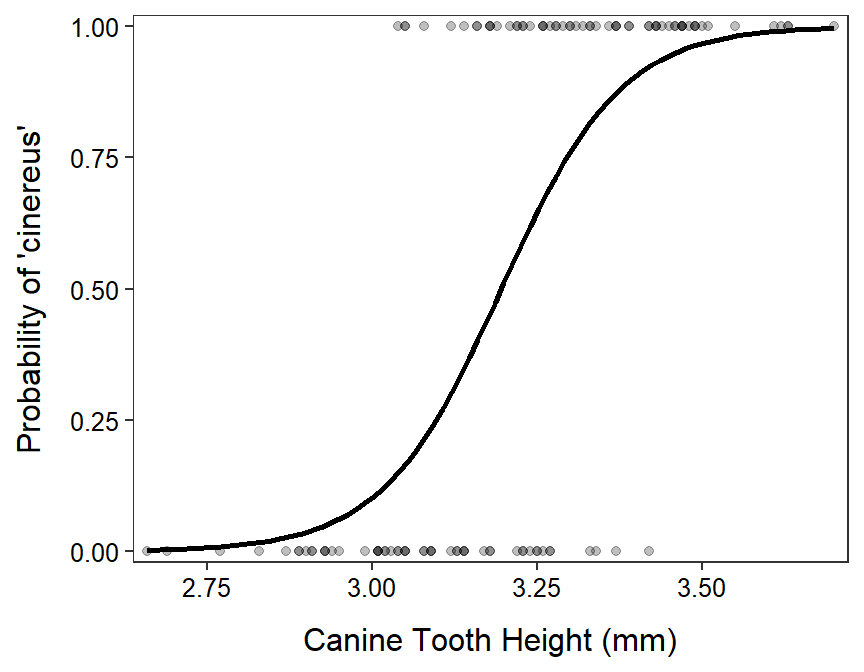
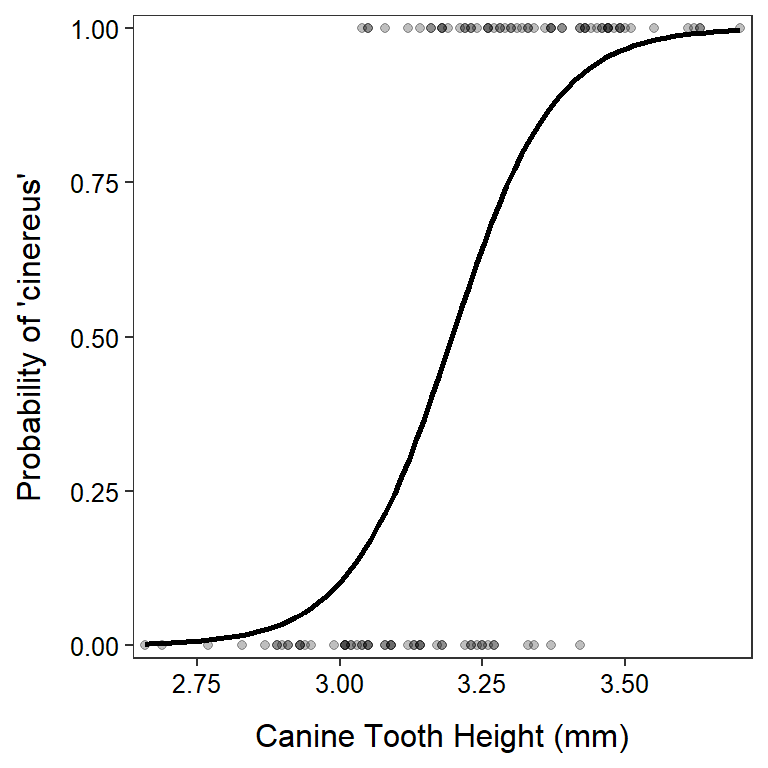
Update Logistic Module CEs

diff --git a/modules/ce/LogRegModels_CE1.html b/modules/ce/LogRegModels_CE1.html
@@ -13,7 +13,7 @@ css: "/css/modules.css"
 <hr />
 <div id="marketability-of-cucumbers" class="section level1">
 <h1>Marketability of Cucumbers</h1>
-<p><img src="../zimgs/cucumbers.jpg" alt="Decoration" class="img-right"> In [this previous exercise] you used these logistic regression results – logit(p)=6.430-0.330DOS – for the Levantino cultivar of cucumber to answer questions about cucumber marketability. Continue with this information to answer the questions below.</p>
+<p><img src="../zimgs/cucumbers.jpg" alt="Decoration" class="img-right"> In <a href="LogRegFoundations_CE1.html#marketability-of-cucumbers">this previous exercise</a> you used these logistic regression results – logit(p)=6.430-0.330DOS – for the Levantino cultivar of cucumber to answer questions about cucumber marketability. Continue with this information to answer the questions below.</p>
 <ol>
 <li>Interpret the slope.</li>
 <li>Interpret the exponentiated slope.</li>
@@ -25,6 +25,7 @@ css: "/css/modules.css"
 <div id="bat-subspecies" class="section level1">
 <h1>Bat Subspecies</h1>
 <p><img src="../zimgs/bat2.jpg" alt="Hoary Bat" class="img-right"> Researchers measured (among other things) the canine tooth height (cm) from two subspecies of <a href="https://en.wikipedia.org/wiki/Hoary_bat">Hoary bats</a> (<em>Lasiurus cinereus cinereus</em> and <em>Lasiurus cinereus semotus</em>) found in Hawaii. Their primary question was to determine if canine tooth height (hereafter, just tooth height) differed between subspecies and, more importantly to them, could tooth height be used to predict the subspecies of bat. The parameter estimates of the logistic regression model used to predict subspecies (note that <em>cinereus</em> was considered a “success”) from canine tooth height (mm) is shown below. The fitted logistic regression is also shown in the figure below.</p>
+<pre><code>Waiting for profiling to be done...</code></pre>
 <table class=" lightable-classic" style="font-family: Cambria; width: auto !important; margin-left: auto; margin-right: auto;">
 <thead>
 <tr>
@@ -50,10 +51,10 @@ Ests
 -35.516
 </td>
 <td style="text-align:right;">
--51.547
+-49.661
 </td>
 <td style="text-align:right;">
--26.622
+-24.217
 </td>
 </tr>
 <tr>
@@ -64,16 +65,16 @@ canine
 11.112
 </td>
 <td style="text-align:right;">
-8.299
+7.589
 </td>
 <td style="text-align:right;">
-16.143
+15.524
 </td>
 </tr>
 </tbody>
 </table>
-<p><img src="LogRegModels_CE1_files/figure-html/unnamed-chunk-4-1.png" width="432" /></p>
-<p>Use this information to answer the questions below.</p>
+<p><img src="LogRegModels_CE1_files/figure-html/unnamed-chunk-4-1.png" width="384" style="display: block; margin: auto;" /></p>
+<p>Use this information to answer the questions below. <em>Show your work.</em></p>
 <ol>
 <li>What is the equation of the best-fit logistic regression line? Replace parameters with their estimated values and define all other symbols.</li>
 <li>Interpret the slope. Use the confidence interval.</li>
@@ -81,8 +82,8 @@ canine
 <li>Predict the log odds of being a <em>cinereus</em> if the canine tooth height is 3.</li>
 <li>Predict the odds of being a <em>cinereus</em> if the canine tooth height is 3. Write a sentence about what this value means.</li>
 <li>Predict the probability of being a <em>cinereus</em> if the canine tooth height is 3. Write a sentence about what this value means.</li>
-<li>Predict the log odds of being a <em>cinereus</em> if the canine tooth height is 4 but only using your previous prediction and the value of the slope.</li>
-<li>Predict the odds of being a <em>cinereus</em> if the canine tooth height is 4 but only using your previous predication and the value of the exponentiated slope.</li>
+<li>Predict the log odds of being a <em>cinereus</em> if the canine tooth height is 4 but only using your previous prediction and the estimated value of the slope.</li>
+<li>Predict the odds of being a <em>cinereus</em> if the canine tooth height is 4 but only using your previous prediction and the estimated value of the exponentiated slope.</li>
 <li>What is the canine tooth height where it is “50-50” that the bat is <em>cinereus</em> or <em>semotus</em>?</li>
 <li>What is the canine tooth height where you are “very sure” (95% likely) that the bat is a <em>cinereus</em>?</li>
 <li>What is the canine tooth height where you are “very sure” (95% likely) that the bat is a <em>semotus</em>?</li>
